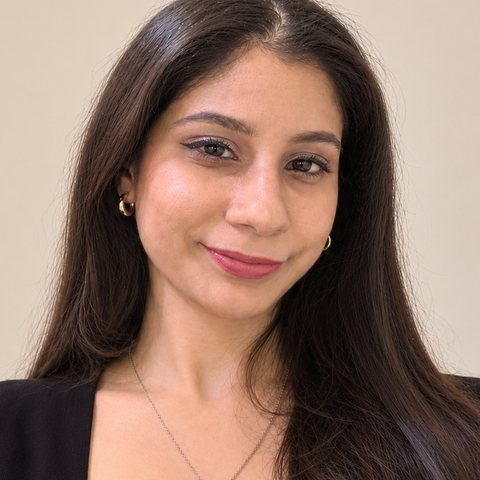
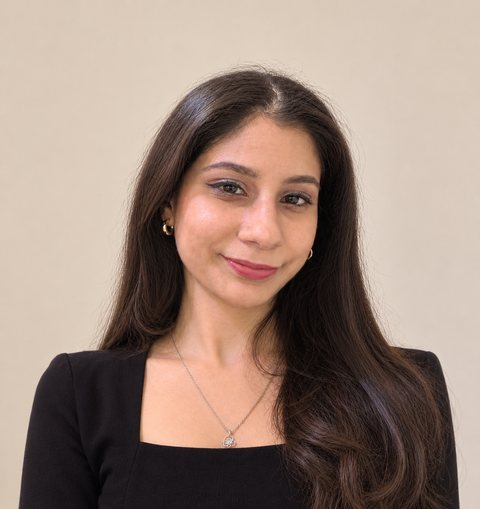
Show the full profile photo in a framed card
Claude-Session: https://claude.ai/code/session_01VPQS9t5ijYx18wN2XzvudA

diff --git a/index.html b/index.html
@@ -107,8 +107,8 @@ section{padding:72px 0}
 
 /* profile */
 .profile{display:grid;grid-template-columns:220px 1fr 280px;gap:34px;align-items:center}
-.avatar{width:200px;height:200px;border-radius:50%;border:2px solid var(--navy);background:var(--tan);box-shadow:var(--shadow);display:grid;place-items:center;font:400 84px "Abril Fatface",serif;color:var(--navy);position:relative}
-.avatar img{width:100%;height:100%;border-radius:50%;object-fit:cover;display:block}
+.avatar{width:230px;padding:10px 10px 12px;background:var(--surface-hi);border:2px solid var(--navy);border-radius:10px;box-shadow:var(--shadow);position:relative}
+.avatar img{width:100%;height:auto;border-radius:6px;display:block}
 .hi{font:700 22px Montserrat,sans-serif;margin:0}
 .big{font:400 clamp(38px,5vw,58px)/1 "Abril Fatface",serif;color:var(--primary);margin:2px 0 12px}
 .quote{font:600 26px/1.15 Caveat,cursive;color:var(--navy);margin:14px 0 0}
@@ -347,7 +347,7 @@ footer .wrap{display:flex;justify-content:space-between;gap:12px;flex-wrap:wrap}
         <div class="titlebar"><span class="path">C:\MARIYAM\profile</span><span class="ctl"><button class="m" aria-label="Minimise window">_</button><button class="x" aria-label="Close window">×</button></span></div>
         <div class="body">
           <div class="profile">
-            <div class="avatar"><img src="img/mariyam.jpg" alt="Mariyam Pangarkar" width="200" height="200"></div>
+            <div class="avatar"><img src="img/mariyam.jpg" alt="Mariyam Pangarkar" width="480" height="509"></div>
             <div>
               <p class="hi">hi! i'm</p>
               <p class="big">Mariyam</p>
